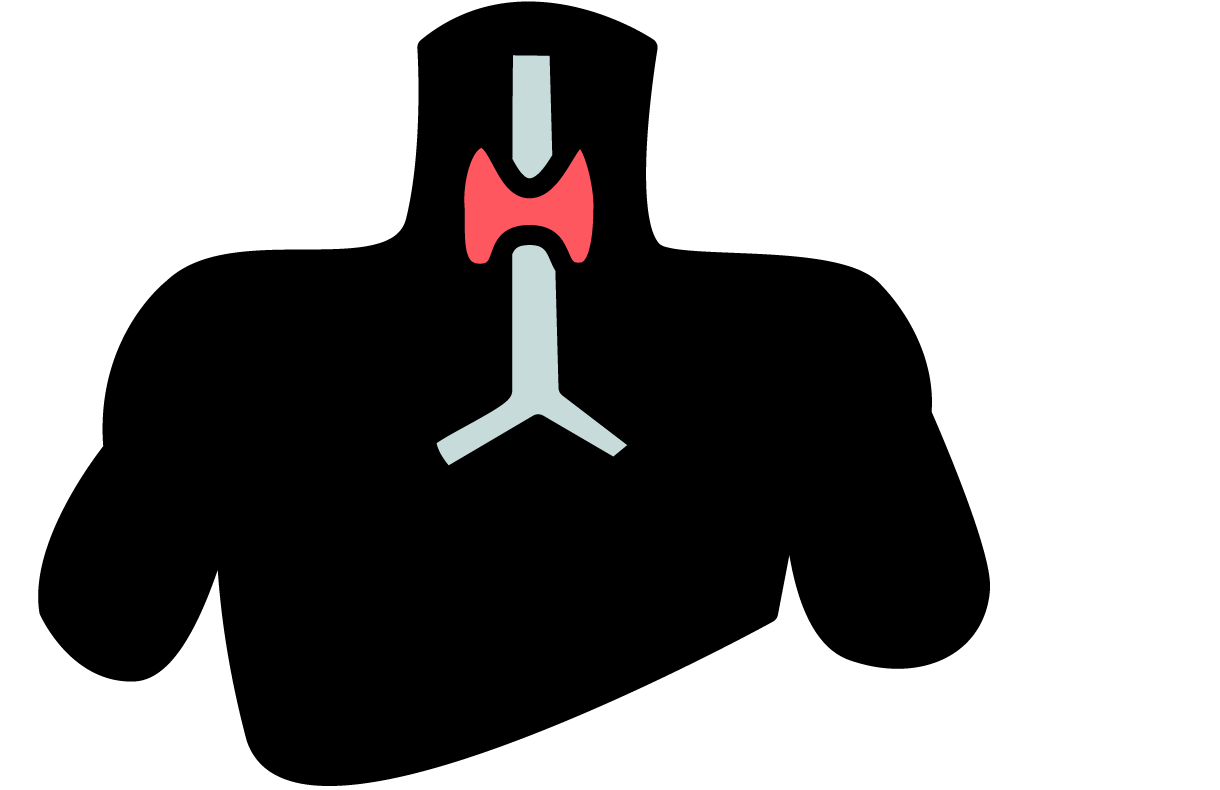
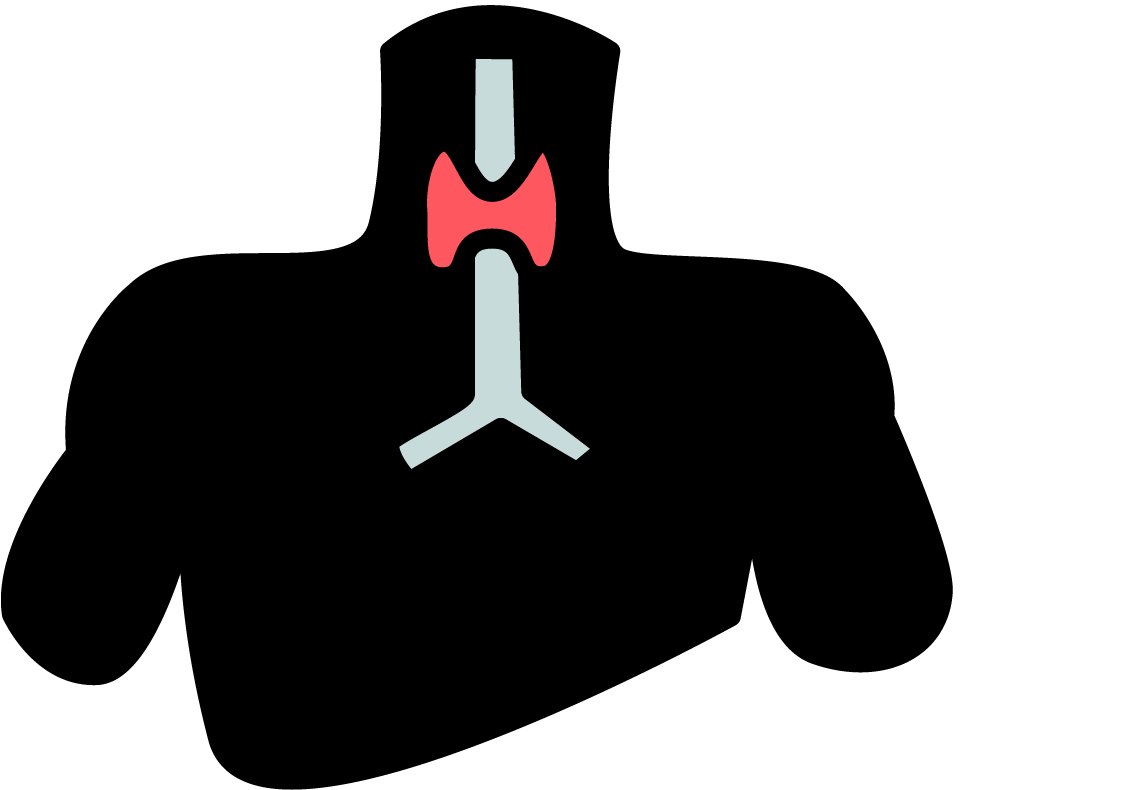
changed endocrine sizes and updated overlay

diff --git a/css/style.css b/css/style.css
@@ -490,7 +490,7 @@ body {
 .endocrine {
   margin-top: 100px;
 	height: 790px;
-	width: 1220px;
+	width: 1121px;
 	float: right;
 }
 
